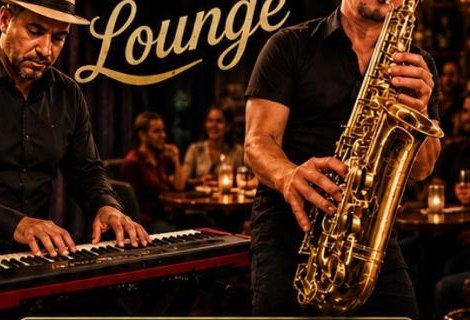
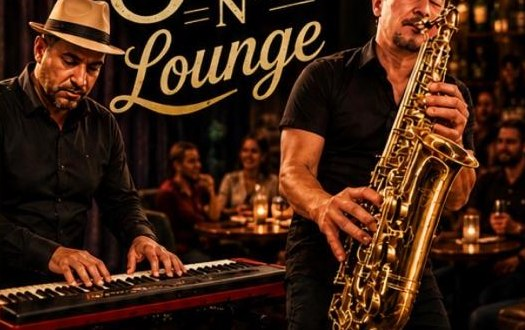
Re-crop event photos to keep faces fully in frame
- Kenny G and Sax N' Lounge card photos now include headroom above
  the head, with object-top so any extra crop trims the bottom
- Noche Latina banner photo re-cropped wider (matches the banner's
  aspect ratio) with object-position tuned to the eye-line so the
  face stays centered at both mobile and desktop widths

diff --git a/src/components/Site.tsx b/src/components/Site.tsx
@@ -345,7 +345,7 @@ export function Site({ locale }: { locale: Locale }) {
               <Reveal key={ev.title} delay={`${i * 0.1}s`}>
                 <div className="warm-card h-full overflow-hidden rounded-2xl border border-terracotta/15 bg-cream-card">
                   {/* eslint-disable-next-line @next/next/no-img-element */}
-                  <img src={ev.photo} alt={ev.alt} className="h-48 w-full object-cover" loading="lazy" />
+                  <img src={ev.photo} alt={ev.alt} className="h-48 w-full object-cover object-top" loading="lazy" />
                   <div className="p-6">
                     <p className="font-display text-xl font-bold text-ink">{ev.title}</p>
                     <p className="mt-2 text-sm font-semibold uppercase tracking-wide text-terracotta">
@@ -367,7 +367,7 @@ export function Site({ locale }: { locale: Locale }) {
               <img
                 src={d.eventos.specialPhoto}
                 alt={d.eventos.specialAlt}
-                className="h-56 w-full object-cover"
+                className="h-56 w-full object-cover object-[center_46%]"
                 loading="lazy"
               />
               <div className="bg-terracotta px-8 py-10 text-center sm:px-16 sm:py-12">
